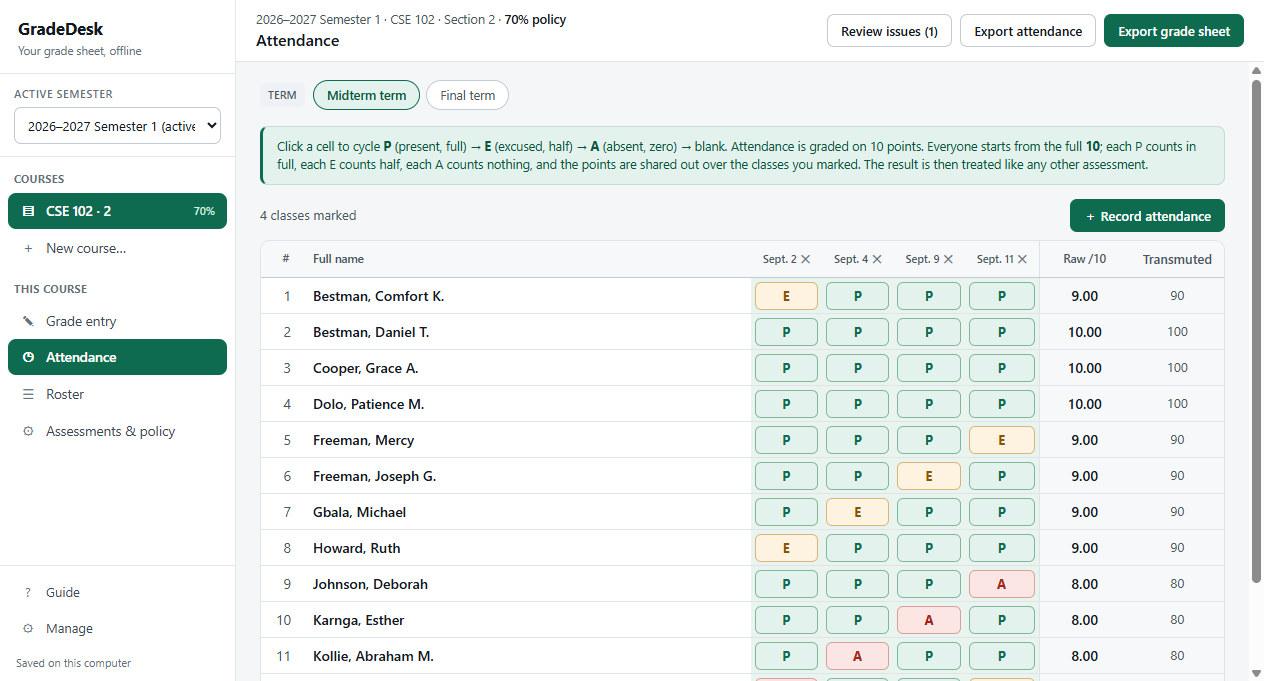
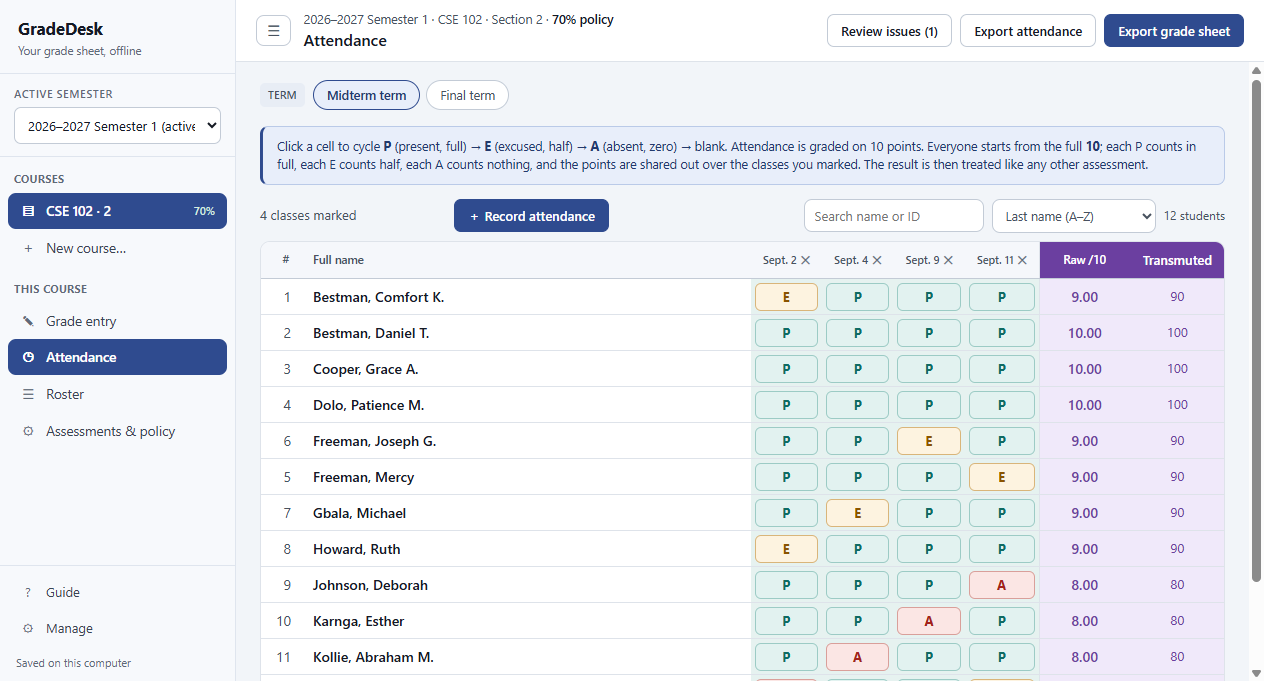
Give the interface a palette instead of one accent colour
The whole app was one green on white. Everything that mattered -- the active
course, a note, a typed score, a computed total, the final grade -- was the same
hue, so nothing stood out by being coloured and a row had to be read rather than
scanned.

There is now a palette, and it carries meaning rather than decorating:

  indigo   the app itself: the active course, the primary action, focus
  teal     a score the instructor typed, and the wells those sit in
  violet   a value GradeDesk worked out, never typed
  amber    something to look at before submitting
  red      something wrong now: over the maximum, a failing letter

That last distinction is the one the entry grid leans on. Reading along a row,
teal cells are yours and violet ones are derived, so the difference no longer
depends on remembering the legend. The attendance screen uses the same two, so
its computed columns look like the grade screen's.

Every pair still clears WCAG AA, which the existing contrast test enforces
against the stylesheet. The new colours were chosen against those ratios rather
than picked and checked afterwards: the weakest pair is 4.95:1 and most sit
above 7:1. Four more tests guard the palette itself -- that the accents stay
genuinely different hues, that the typed and computed colours never converge,
and that white still reads on the solid fills the headers use -- so a future
edit that collapses this back towards one colour fails here.
[…]

diff --git a/src/renderer/styles.css b/src/renderer/styles.css
@@ -3,40 +3,73 @@
 :root {
   /*
    * Chosen for a projector as much as a laptop screen. Projectors have poor
-   * black levels and wash out mid greys, so the interface is light, the text
-   * is near black, and every text-on-background pair clears a contrast ratio
-   * of 4.5 to 1. One green accent carries meaning; everything else is neutral.
+   * black levels and wash out mid greys, so the interface stays light, the text
+   * is near black, and every text-on-background pair clears a contrast ratio of
+   * 4.5 to 1. Those ratios are asserted in test/contrast.test.js, so a colour
+   * edited to look nicer on a good monitor fails there rather than in a
+   * lecture hall.
+   *
+   * COLOUR CARRIES MEANING HERE, it is not decoration:
+   *
+   *   indigo   the app itself -- the active course, the primary action, focus
+   *   teal     a score you typed, and the wells those live in
+   *   violet   a value the app worked out for you, never typed
+   *   amber    something to look at before submitting
+   *   red      something wrong now: over the maximum, a failing letter
+   *
+   * An instructor reading a row should be able to tell what they entered from
+   * what GradeDesk derived without reading a legend, which is why the entry
+   * column and the computed columns are different hues rather than two shades
+   * of the same one.
    */
-  --ink: #12181f;           /* body text, 17.9:1 on white */
-  --ink-soft: #4a5561;      /* secondary text, 7.6:1 on white */
-  --ink-faint: #657079;     /* labels and hints, 5.1:1 on white, 4.7:1 on canvas */
-  --line: #dfe4ea;
-  --line-strong: #c2cad3;
+
+  /* ---- neutrals ---- */
+  --ink: #151a24;           /* body text, 17.4:1 on white */
+  --ink-soft: #48525f;      /* secondary text, 7.9:1 on white */
+  --ink-faint: #616b78;     /* labels and hints, 5.4:1 on white, 4.9:1 on canvas */
+  --line: #dee3ea;
+  --line-strong: #c3cbd6;
   --paper: #ffffff;
-  --canvas: #f4f6f8;
+  --canvas: #f2f5f9;        /* a cool page behind the white cards */
 
   /* The side panel is light. A dark panel looks smart on a laptop and turns
-     into an unreadable block when projected. */
-  --rail: #ffffff;
-  --rail-edge: #e4e8ee;
-  --rail-ink: #3d4854;
-  --rail-muted: #657079;
-  --rail-hover: #eef1f5;
+     into an unreadable block when projected. It is tinted just enough to read
+     as a panel rather than more page. */
+  --rail: #f7f9fc;
+  --rail-edge: #dfe5ee;
+  --rail-ink: #3a4452;
+  --rail-muted: #5f6a78;
+  --rail-hover: #e8edf5;
 
-  --brand: #0f6b4f;
-  --brand-ink: #0b5540;
-  --brand-tint: #e3f2ec;
+  /* ---- indigo: the app, the active thing, the primary action ---- */
+  --brand: #2f4b8f;
+  --brand-ink: #23396d;
+  --brand-tint: #e8eefa;
+  --brand-line: #b9c9e8;
+
+  /* ---- teal: what you typed ---- */
+  --teal: #0f6b63;
+  --teal-tint: #e2f2f0;
+  --teal-line: #9ccbc5;
+
+  /* ---- violet: what the app worked out ---- */
+  --violet: #6b3fa0;
+  --violet-tint: #f0e9fa;
+  --violet-line: #cdb8e8;
+
+  /* ---- status ---- */
   --amber: #8a5300;
   --amber-tint: #fdf3e0;
   --red: #a3231b;
   --red-tint: #fbe6e4;
-  --blue: #1a4f8a;
-  --blue-tint: #e5eef8;
+  /* Kept as an alias: the letter badges and a few notes still name it. */
+  --blue: #2f4b8f;
+  --blue-tint: #e8eefa;
 
-  --read: #f6f8fa;          /* computed cells */
-  --focus: #0f6b4f;
-  --entry-bg: #eaf4ef;      /* the editable column's well */
-  --entry-line: #9dc2b0;    /* the outline around an editable cell */
+  --read: #f5f7fb;          /* computed cells */
+  --focus: #2f4b8f;
+  --entry-bg: #e6f2f0;      /* the editable column's well, teal */
+  --entry-line: #8fc3bc;    /* the outline around an editable cell */
 }
 
 * { box-sizing: border-box; }
@@ -318,14 +351,14 @@ td.entry input {
 }
 td.entry input:hover:not([readonly]) { border-color: var(--brand); }
 td.entry input:focus {
-  border-color: var(--focus); background: #f2faf6;
+  border-color: var(--teal); background: #f1faf8;
   box-shadow: 0 0 0 3px rgba(47, 109, 79, .18);
   font-weight: 600;
 }
 /* The whole row lifts while a cell in it is being edited, so the eye keeps its
    place when typing down a long class list. */
 tbody tr:focus-within td { background: #f3f9f6; }
-tbody tr:focus-within td.entry { background: #dff0e7; }
+tbody tr:focus-within td.entry { background: #d8ece9; }
 td.entry input.over {
   background: var(--red-tint); color: var(--red); font-weight: 600;
   border-color: var(--red);
@@ -337,6 +370,12 @@ td.entry input[readonly] {
 }
 /* The column being typed into is tinted in the header too. */
 th.th-entry { position: relative; }
+/* The heading over a column you type into, tinted like the cells beneath it. */
+/* thead th sets a background for every header, so these have to match its
+   specificity to tint the columns they sit over. */
+thead th.th-entry { background: var(--teal-tint); color: var(--teal); }
+thead th.th-entry .thmax { color: var(--teal); opacity: .8; }
+thead th.col-secondary { background: var(--violet-tint); color: var(--violet); }
 
 /* ---------------- the entry grid, all of a term at once ----------------
    Every assessment in the term is a column, as the instructor's own workbook
@@ -372,7 +411,7 @@ th.th-entry { position: relative; }
 .entrytable thead th { padding-left: 4px; padding-right: 4px; white-space: normal; }
 .entrytable th.th-trans { padding-left: 1px; padding-right: 1px; }
 .entrytable td.td-trans { padding-left: 1px; padding-right: 1px; }
-.entrytable th.th-trans { font-size: 10.5px; color: var(--ink-soft); background: var(--read); }
+.entrytable th.th-trans { font-size: 10.5px; color: var(--violet); background: var(--violet-tint); }
 .entrytable td.td-trans { font-size: 11.5px; }
 /* With the transmuted columns in, the entry cells give up a little width too,
    so the whole term still fits beside the totals. */
@@ -501,20 +540,32 @@ th.th-entry { position: relative; }
   .entrytable th.th-entry .thname { font-size: 11px; }
   .entrytable td.sid, .entrytable th:nth-child(2) { font-size: 12px; }
 }
-td.read { background: var(--read); color: var(--ink-soft); text-align: center; width: 74px; font-variant-numeric: tabular-nums; font-size: 13px; }
-td.total { background: var(--read); color: var(--ink); text-align: center; font-weight: 600; width: 82px; font-variant-numeric: tabular-nums; }
+/* Worked out, never typed. Violet so a glance along a row separates what the
+   instructor entered from what GradeDesk derived, without reading a legend. */
+td.read {
+  background: var(--violet-tint); color: var(--violet); text-align: center;
+  width: 74px; font-variant-numeric: tabular-nums; font-size: 13px;
+}
+td.total {
+  background: var(--violet-tint); color: var(--violet); text-align: center;
+  font-weight: 700; width: 82px; font-variant-numeric: tabular-nums;
+}
 /* The final grade and letter are the point of this screen, so they are pinned
    to the right edge and stay readable however narrow the window gets. */
+/* The answer this screen exists to give, so it carries the app's own colour
+   rather than sitting blank between two tinted blocks. */
 td.final, th.final {
   text-align: center; font-weight: 700; width: 86px; font-variant-numeric: tabular-nums;
-  position: sticky; right: 60px; background: var(--paper);
-  box-shadow: inset 1px 0 0 var(--line);
+  position: sticky; right: 60px; background: var(--brand-tint); color: var(--brand-ink);
+  box-shadow: inset 1px 0 0 var(--brand-line);
 }
 td.letter, th.letter {
   text-align: center; width: 60px; font-weight: 700;
   position: sticky; right: 0; background: var(--paper);
 }
-thead th.final, thead th.letter { background: var(--read); z-index: 3; }
+/* The grade and letter headings carry the app's colour, so the answer end of
+   the row is distinct from the tinted entry and computed blocks beside it. */
+thead th.final, thead th.letter { background: var(--brand); color: #fff; z-index: 3; }
 tbody tr:hover td.final, tbody tr:hover td.letter { background: var(--rail-hover); }
 tbody tr:hover td:not(.read):not(.total):not(.final):not(.letter) { background: var(--rail-hover); }
 
@@ -529,7 +580,7 @@ tbody tr:hover td:not(.read):not(.total):not(.final):not(.letter) { background: 
 
 /* ---------------- notes, legends ---------------- */
 .note {
-  background: var(--brand-tint); border: 1px solid #bfdfd0; border-left: 3px solid var(--brand);
+  background: var(--brand-tint); border: 1px solid var(--brand-line); border-left: 3px solid var(--brand);
   border-radius: 8px; padding: 10px 14px; font-size: 12.5px; color: var(--brand-ink); margin-bottom: 14px;
 }
 .note.warn { background: var(--amber-tint); border-color: #e5c48c; border-left-color: var(--amber); color: var(--amber); }
@@ -554,9 +605,9 @@ td.att {
 td.att:hover .attchip { border-color: var(--brand); }
 td.att:focus-visible { outline: none; }
 td.att:focus-visible .attchip {
-  border-color: var(--focus); box-shadow: 0 0 0 3px rgba(15, 107, 79, .2);
+  border-color: var(--focus); box-shadow: 0 0 0 3px rgba(47, 75, 143, .22);
 }
-td.att.P .attchip { background: #e3f2ec; border-color: #7fb79c; color: var(--brand); }
+td.att.P .attchip { background: var(--teal-tint); border-color: var(--teal-line); color: var(--teal); }
 td.att.E .attchip { background: var(--amber-tint); border-color: #d9b57a; color: var(--amber); }
 td.att.A .attchip { background: var(--red-tint); border-color: #d99f9a; color: var(--red); }
 td.att.blank .attchip { color: #b7c0cd; border-style: dashed; }
@@ -565,7 +616,9 @@ th.session { text-align: center; font-size: 11px; }
    the right the same way the final grade is on the entry screen. Otherwise it
    scrolls out of sight the moment a term has more than a handful of meetings. */
 td.att-raw, th.att-raw {
-  position: sticky; right: 74px; background: var(--read);
+  /* Worked out from the register, so it carries the derived colour the grade
+     screen uses for the same kind of value. */
+  position: sticky; right: 74px; background: var(--violet-tint); color: var(--violet);
   text-align: center; font-weight: 600;
   /* Wide enough for the header "Raw /10" and a two-decimal value like 10.00;
      at 82px both were clipped. */
@@ -574,10 +627,12 @@ td.att-raw, th.att-raw {
   white-space: nowrap;
 }
 td.att-trans, th.att-trans {
-  position: sticky; right: 0; background: var(--read);
+  position: sticky; right: 0; background: var(--violet-tint); color: var(--violet);
   text-align: center; width: 74px; font-variant-numeric: tabular-nums; font-size: 13px;
 }
-thead th.att-raw, thead th.att-trans { background: var(--read); z-index: 3; }
+thead th.att-raw, thead th.att-trans {
+  background: var(--violet); color: #fff; z-index: 3;
+}
 th.session .del { color: var(--ink-faint); cursor: pointer; margin-left: 4px; }
 th.session .del:hover { color: var(--red); }
 
@@ -607,9 +662,19 @@ th.session .del:hover { color: var(--red); }
 .addrow { margin-top: 10px; }
 
 .kpis { display: flex; gap: 12px; margin-bottom: 16px; flex-wrap: wrap; }
-.kpi { background: var(--paper); border: 1px solid var(--line); border-radius: 9px; padding: 11px 15px; min-width: 100px; }
-.kpi .v { font-size: 20px; font-weight: 700; }
+/* A coloured edge along the top, so a row of tiles reads as a set of figures
+   rather than four empty boxes. The number carries the app's colour. */
+.kpi {
+  background: var(--paper); border: 1px solid var(--line); border-radius: 9px;
+  padding: 11px 15px; min-width: 100px; border-top: 3px solid var(--brand);
+}
+.kpi .v { font-size: 20px; font-weight: 700; color: var(--brand-ink); }
 .kpi .l { font-size: 11.5px; color: var(--ink-soft); }
+/* Every other tile takes the next hue along, so a row of them is scannable. */
+.kpi:nth-child(2n) { border-top-color: var(--teal); }
+.kpi:nth-child(2n) .v { color: var(--teal); }
+.kpi:nth-child(3n) { border-top-color: var(--violet); }
+.kpi:nth-child(3n) .v { color: var(--violet); }
 
 .field { margin-bottom: 12px; }
 .field label { display: block; font-size: 12px; color: var(--ink-soft); margin-bottom: 4px; }
@@ -670,7 +735,7 @@ th.session .del:hover { color: var(--red); }
 .ta-right { text-align: right; }
 .ta-center { text-align: center; }
 .ta-left { text-align: left; }
-.th-entry { text-align: center; background: #eef7f1; }
+.th-entry { text-align: center; }
 .th-computed { text-align: center; background: var(--read); }
 .w-id { width: 140px; }
 .w-auto { width: auto; }
@@ -731,9 +796,9 @@ td.entry input.id-input:focus {
 .previewtable tr:last-child td { border-bottom: 0; }
 /* A row with no surname: the columns did not line up. */
 .previewtable tr.previewbad td { background: #fdf1ef; color: #993229; }
-.k-entry { background: #eef7f1; border: 1px solid #bfdfd0; }
-.k-read { background: var(--read); border: 1px solid var(--line); }
-.k-total { background: var(--read); border: 1px solid var(--line); }
+.k-entry { background: var(--entry-bg); border: 1px solid var(--teal-line); }
+.k-read { background: var(--violet-tint); border: 1px solid var(--violet-line); }
+.k-total { background: var(--violet-tint); border: 1px solid var(--violet-line); }
 
 
 /* ---------------- wizard ---------------- */
@@ -764,8 +829,8 @@ td.entry input.id-input:focus {
 tbody tr.rowblank td { background: #fbfbfc; }
 tbody tr.rowblank td.idx { color: #c3cad4; }
 tbody tr.rowpartial td.entry { background: #fffdf6; }
-.kpi.warn { border-color: #e5c48c; background: var(--amber-tint); }
-.kpi.warn .v { color: var(--amber); }
+.kpi.warn, .kpi.flagged { border-color: #e5c48c; border-top-color: var(--amber); background: var(--amber-tint); }
+.kpi.warn .v, .kpi.flagged .v { color: var(--amber); }
 .kpi.warn .l { color: var(--amber); }
 td.entry input::placeholder { color: #c3cad4; }
 /* The roster fills the window like every other grid. Its columns are given

diff --git a/test/contrast.test.js b/test/contrast.test.js
@@ -167,3 +167,76 @@ test('no button sets a text colour without also setting its background', () => {
   }
   assert.deepEqual(offenders, [], `button rule(s) recolour text without a background: ${offenders.join(', ')}`);
 });
+
+/**
+ * The palette has to stay a palette.
+ *
+ * The first version of this interface was one green accent on white, which read
+ * as a single colour throughout. Colour now carries meaning — indigo for the
+ * app, teal for what the instructor typed, violet for what GradeDesk worked
+ * out, amber and red for attention — so a row can be read without a legend.
+ * These check the hues stay distinct, not merely that they exist.
+ */
+
+/** Hue angle, 0-360, from a hex colour. */
+function hue(hex) {
+  const [r, g, b] = toRgb(hex).map((v) => v / 255);
+  const max = Math.max(r, g, b);
+  const min = Math.min(r, g, b);
+  const d = max - min;
+  if (d === 0) return 0;
+  let h;
+  if (max === r) h = ((g - b) / d) % 6;
+  else if (max === g) h = (b - r) / d + 2;
+  else h = (r - g) / d + 4;
+  h *= 60;
+  return h < 0 ? h + 360 : h;
+}
+
+/** Shortest distance between two hue angles. */
+function hueGap(a, b) {
+  const d = Math.abs(hue(a) - hue(b)) % 360;
+  return d > 180 ? 360 - d : d;
+}
+
+test('the accent colours are genuinely different hues, not shades of one', () => {
+  const accents = ['brand', 'teal', 'violet', 'amber', 'red'];
+  const tooClose = [];
+  for (let i = 0; i < accents.length; i++) {
+    for (let j = i + 1; j < accents.length; j++) {
+      const gap = hueGap(token(accents[i]), token(accents[j]));
+      // 25 degrees apart is enough to read as a different colour; amber and red
+      // are the closest pair and sit well beyond it.
+      if (gap < 25) tooClose.push(`${accents[i]} and ${accents[j]}: ${gap.toFixed(0)} degrees apart`);
+    }
+  }
+  assert.deepEqual(tooClose, [], `${tooClose.length} accent pair(s) too close to tell apart`);
+});
+
+test('what you typed and what the app worked out are different colours', () => {
+  // The distinction the entry grid leans on: teal cells are yours, violet ones
+  // are derived. If these ever converge the grid stops being readable at a
+  // glance and the legend becomes load-bearing.
+  const gap = hueGap(token('teal'), token('violet'));
+  assert.ok(gap >= 60, `entry and computed colours are only ${gap.toFixed(0)} degrees apart`);
+  // And their tints, which is what actually fills the cells.
+  assert.notEqual(token('teal-tint'), token('violet-tint'));
+});
+
+test('every accent still reads on white and on the page', () => {
+  const failures = [];
+  for (const name of ['brand', 'teal', 'violet', 'amber', 'red']) {
+    for (const surface of ['paper', 'canvas']) {
+      const ratio = contrast(token(name), token(surface));
+      if (ratio < AA_BODY) failures.push(`${name} on ${surface}: ${ratio.toFixed(2)}:1`);
+    }
+  }
+  assert.deepEqual(failures, [], `${failures.length} accent(s) below ${AA_BODY}:1`);
+});
+
+test('white reads on the solid fills the headers use', () => {
+  for (const name of ['brand', 'violet']) {
+    const ratio = contrast('#ffffff', token(name));
+    assert.ok(ratio >= AA_BODY, `white on ${name} is only ${ratio.toFixed(2)}:1`);
+  }
+});

diff --git a/README.md b/README.md
@@ -155,7 +155,7 @@ A four-step wizard on first run, and a full guide you can open at any time.
 
 ## Install on another PC
 
-You need one file: **`GradeDesk-Setup-1.4.0.exe`**.
+You need one file: **`GradeDesk-Setup-1.5.0.exe`**.
 
 1. **Copy the installer** onto a flash drive, or download it from the
    [Releases page](https://github.com/KwiteeGaylah/GradeDesk/releases).
